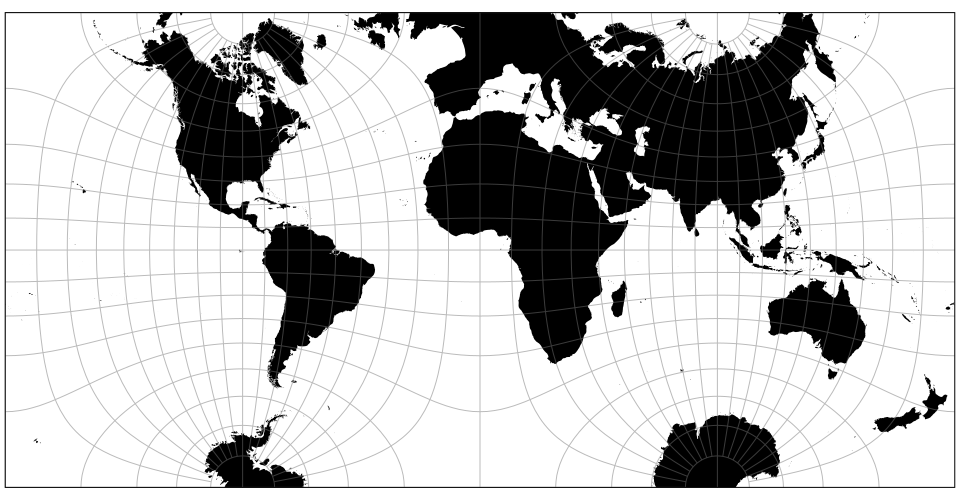
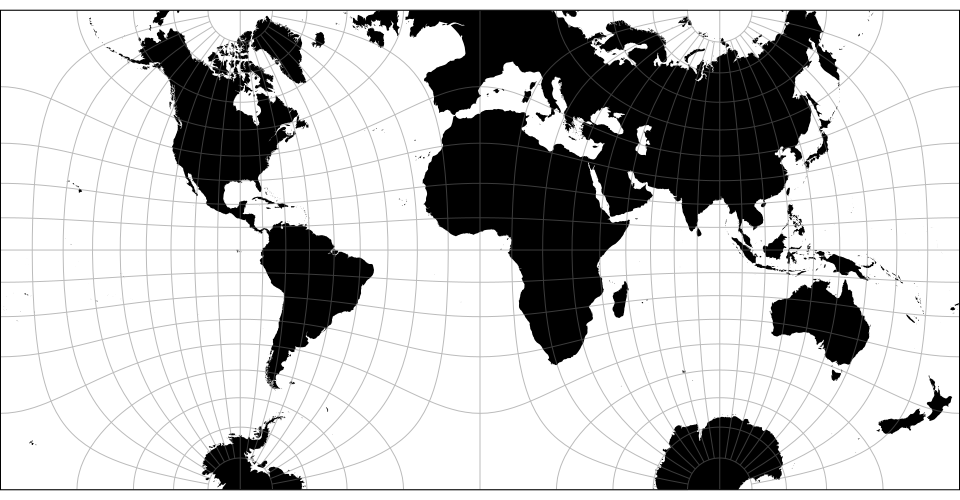
Tweak defaults.

diff --git a/src/elliptic.js b/src/elliptic.js
@@ -1,23 +1,24 @@
-import {abs, atan, cos, cosh, epsilon, exp, halfPi, log, pi, pow, sign, sin, sinh, sqrt, tan, tanh} from "./math";
+import {abs, asin, atan, cos, cosh, epsilon, exp, halfPi, log, pi, pow, quarterPi, sign, sin, sinh, sqrt, tan, tanh} from "./math";
 
 // Returns [sn, cn, dn](u + iv|m).
 export function ellipticJi(u, v, m) {
+  var a, b, c;
   if (!u) {
-    var b = ellipticJ(v, 1 - m);
+    b = ellipticJ(v, 1 - m);
     return [
       [0, b[0] / b[1]],
       [1 / b[1], 0],
       [b[2] / b[1], 0]
     ];
   }
-  var a = ellipticJ(u, m);
+  a = ellipticJ(u, m);
   if (!v) return [[a[0], 0], [a[1], 0], [a[2], 0]];
-  var b = ellipticJ(v, 1 - m),
-      denominator = b[1] * b[1] + m * a[0] * a[0] * b[0] * b[0];
+  b = ellipticJ(v, 1 - m);
+  c = b[1] * b[1] + m * a[0] * a[0] * b[0] * b[0];
   return [
-    [a[0] * b[2] / denominator, a[1] * a[2] * b[0] * b[1] / denominator],
-    [a[1] * b[1] / denominator, -a[0] * a[2] * b[0] * b[2] / denominator],
-    [a[2] * b[1] * b[2] / denominator, -m * a[0] * a[1] * b[0] / denominator]
+    [a[0] * b[2] / c, a[1] * a[2] * b[0] * b[1] / c],
+    [a[1] * b[1] / c, -a[0] * a[2] * b[0] * b[2] / c],
+    [a[2] * b[1] * b[2] / c, -m * a[0] * a[1] * b[0] / c]
   ];
 }
 
@@ -27,16 +28,16 @@ export function ellipticJ(u, m) {
   if (m < epsilon) {
     t = sin(u);
     b = cos(u);
-    ai = .25 * m * (u - t * b);
+    ai = m * (u - t * b) / 4;
     return [
       t - ai * b,
       b + ai * t,
-      1 - .5 * m * t * t,
+      1 - m * t * t / 2,
       u - ai
     ];
   }
   if (m >= 1 - epsilon) {
-    ai = .25 * (1 - m);
+    ai = (1 - m) / 4;
     b = cosh(u);
     t = tanh(u);
     phi = 1 / b;
@@ -57,8 +58,8 @@ export function ellipticJ(u, m) {
 
   while (abs(c[i] / a[i]) > epsilon && i < 8) {
     ai = a[i++];
-    c[i] = .5 * (ai - b);
-    a[i] = .5 * (ai + b);
+    c[i] = (ai - b) / 2;
+    a[i] = (ai + b) / 2;
     b = sqrt(ai * b);
     twon *= 2;
   }
@@ -66,7 +67,7 @@ export function ellipticJ(u, m) {
   phi = twon * a[i] * u;
   do {
     t = c[i] * sin(b = phi) / a[i];
-    phi = .5 * (asin(t) + phi);
+    phi = (asin(t) + phi) / 2;
   } while (--i);
 
   return [sin(phi), t = cos(phi), t / cos(phi - b), phi];
@@ -83,10 +84,10 @@ export function ellipticFi(phi, psi, m) {
         cotPhi2 = 1 / (tan(r) * tan(r)),
         b = -(cotPhi2 + m * (sinhPsi * sinhPsi * cscPhi * cscPhi) - 1 + m),
         c = (m - 1) * cotPhi2,
-        cotλ2 = .5 * (-b + sqrt(b * b - 4 * c));
+        cotLambda2 = (-b + sqrt(b * b - 4 * c)) / 2;
     return [
-      ellipticF(atan(1 / sqrt(cotλ2)), m) * sign(phi),
-      ellipticF(atan(sqrt((cotλ2 / cotPhi2 - 1) / m)), 1 - m) * sign(psi)
+      ellipticF(atan(1 / sqrt(cotLambda2)), m) * sign(phi),
+      ellipticF(atan(sqrt((cotLambda2 / cotPhi2 - 1) / m)), 1 - m) * sign(psi)
     ];
   }
   return [
@@ -99,7 +100,7 @@ export function ellipticFi(phi, psi, m) {
 // See Abramowitz and Stegun, 17.6.7.
 export function ellipticF(phi, m) {
   if (!m) return phi;
-  if (m === 1) return log(tan(phi / 2 + pi / 4));
+  if (m === 1) return log(tan(phi / 2 + quarterPi));
   var a = 1,
       b = sqrt(1 - m),
       c = sqrt(m);

diff --git a/src/gringortenQuincuncial.js b/src/gringortenQuincuncial.js
@@ -4,7 +4,7 @@ import quincuncialRaw from "./quincuncial";
 
 export default function() {
   return projection(quincuncialRaw(gringortenRaw))
-      .scale(170)
-      .rotate([65, -90])
+      .scale(176.5)
+      .rotate([-90, -90, 45])
       .clipAngle(180 - 1e-3);
 }

diff --git a/src/pierceQuincuncial.js b/src/pierceQuincuncial.js
@@ -4,7 +4,7 @@ import quincuncialRaw from "./quincuncial";
 
 export default function() {
   return projection(quincuncialRaw(guyouRaw))
-      .scale(110)
+      .scale(111.5)
       .rotate([-90, -90, 45])
       .clipAngle(180 - 1e-3);
 }

diff --git a/src/gringorten.js b/src/gringorten.js
@@ -140,5 +140,5 @@ function gringortenHexadecantInvert(x, y) {
 }
 
 export default function() {
-  return projection(squareRaw(gringortenRaw)).scale(232);
+  return projection(squareRaw(gringortenRaw)).scale(240);
 }

diff --git a/src/guyou.js b/src/guyou.js
@@ -48,5 +48,5 @@ guyouRaw.invert = function(x, y) {
 };
 
 export default function() {
-  return projection(squareRaw(guyouRaw)).scale(150);
+  return projection(squareRaw(guyouRaw)).scale(151.5);
 }
